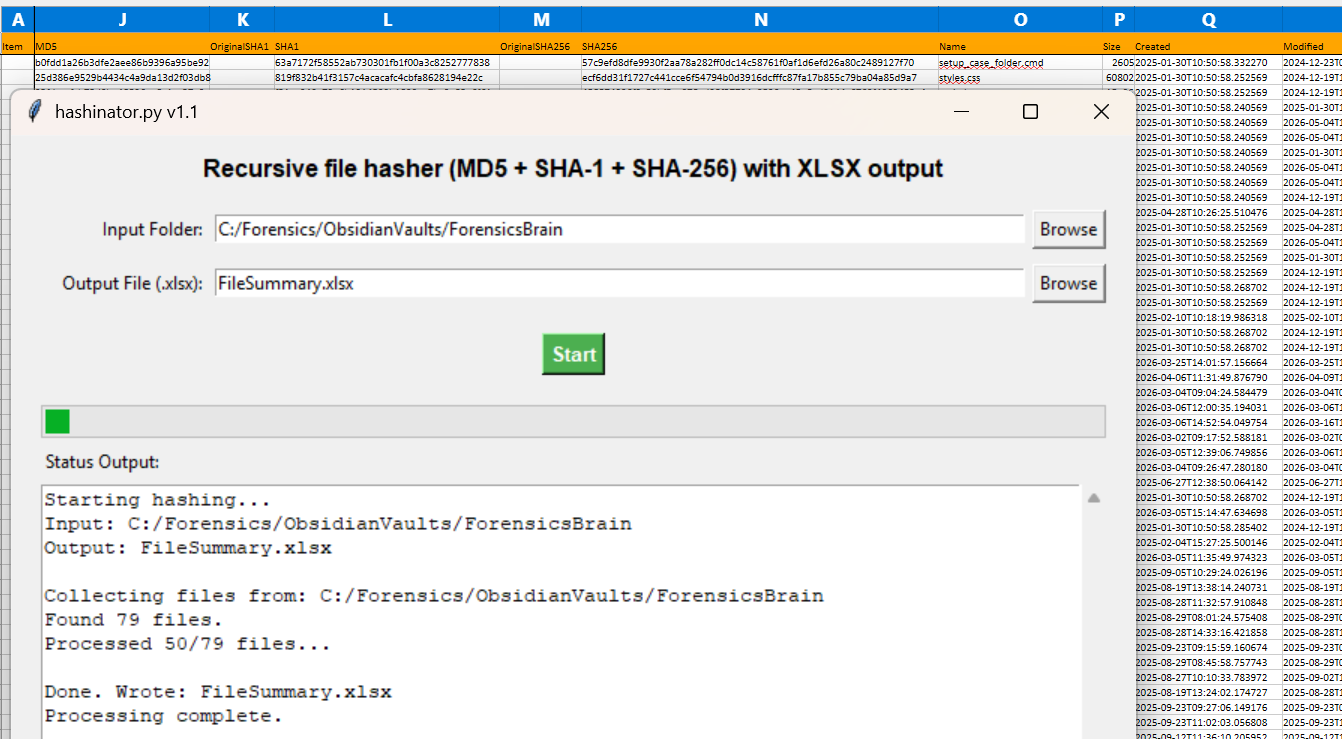
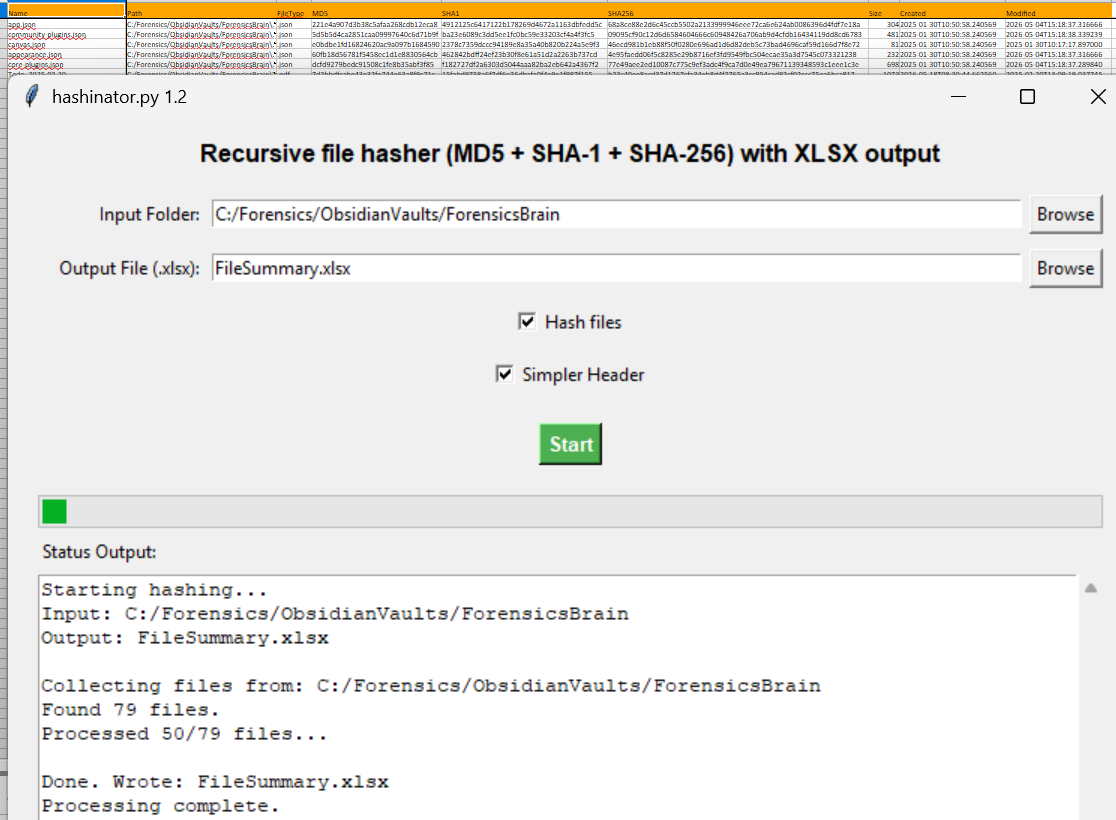
.

Changed region(s): [[0.0, 0.0, 1.0, 1.0], [0.3961, 0.4357, 0.5789, 0.5291], [0.457, 0.3735, 0.5789, 0.4046]]

diff --git a/Misc/hashinator.py b/Misc/hashinator.py
@@ -25,6 +25,9 @@ HEADERS = ["Item", "Path", "FileType", "ExportID", "ItemPath", "OriginalPath"
 , "ParentItem", "HeadOfFamily", "OriginalMD5", "MD5", "OriginalSHA1", "SHA1"
 , "OriginalSHA256", "SHA256", "Name", "Size", "Created", "Modified"]
 
+HEADERS2 = ["Name", "Path", "FileType", "MD5", "SHA1", "SHA256", "Size", "Created", "Modified"]
+
+
 
 # ----------------------------------------------------------------------
 # Hashing + file info
@@ -86,33 +89,31 @@ def write_xlsx(data, output_xlsx, headers):
     # -----------------------------
     # Column width settings
     # -----------------------------
-    widths = {
-        "A": 6,  # Item
-        "B": 38,  # Path
-        "C": 9,  # FileType
-        "D": 9,  # ExportID
-        "E": 9,  # ItemPath
-        "F": 14,  # OriginalPath
-        "G": 11,  # ParentItem
-        "H": 14,  # HeadOfFamily
-        "I": 12,  # OriginalMD5
-        "J": 33,  # MD5
-        "K": 12,  # OriginalSHA1
-        "L": 42,  # SHA1
-        "M": 15,  # OriginalSHA256
-        "N": 66,  # SHA256
-        "O": 30,  # Name
-        "P": 6,  # Size
-        "Q": 27,  # Created
-        "R": 27,  # Modified        
+    header_widths = {
+        "Item": 6,
+        "Path": 38,
+        "FileType": 9,
+        "ExportID": 9,
+        "ItemPath": 9,
+        "OriginalPath": 14,
+        "ParentItem": 11,
+        "HeadOfFamily": 14,
+        "OriginalMD5": 12,
+        "MD5": 33,
+        "OriginalSHA1": 12,
+        "SHA1": 42,
+        "OriginalSHA256": 15,
+        "SHA256": 66,
+        "Name": 30,
+        "Size": 8,
+        "Created": 27,
+        "Modified": 27,
     }
 
-								
-
-
-
-    for col, width in widths.items():
-        ws.column_dimensions[col].width = width
+    for col_index, header in enumerate(headers, start=1):
+        if header in header_widths and col_index <= 26:
+            col_letter = chr(64 + col_index)
+            ws.column_dimensions[col_letter].width = header_widths[header]
 
     # -----------------------------
     # Write data rows (dynamic order)
@@ -170,7 +171,7 @@ def write_xlsx(data, output_xlsx, headers):
 # ----------------------------------------------------------------------
 # Core processing
 # ----------------------------------------------------------------------
-def process_folder(input_folder, output_file, do_hashing=True, status_callback=None):
+def process_folder(input_folder, output_file, do_hashing=True, use_simple_headers=False, status_callback=None):
     if status_callback:
         status_callback(f"Collecting files from: {input_folder}\n")
 
@@ -235,7 +236,8 @@ def process_folder(input_folder, output_file, do_hashing=True, status_callback=N
             if status_callback and processed % 50 == 0:
                 status_callback(f"Processed {processed}/{total} files...\n")
 
-    write_xlsx(data, output_file, HEADERS)
+    headers_to_use = HEADERS2 if use_simple_headers else HEADERS
+    write_xlsx(data, output_file, headers_to_use)
 
     if status_callback:
         status_callback(f"\nDone. Wrote: {output_file}\n")
@@ -257,6 +259,7 @@ text_status = None
 progress = None
 btn_start = None
 hash_files_var = None
+simpler_header_var = None
 
 
 def gui_log(message):
@@ -286,6 +289,7 @@ def start_processing_thread():
     def worker():
         try:
             process_folder(input_folder, output_file, do_hashing=hash_files_var.get(),
+                           use_simple_headers=simpler_header_var.get(),
                            status_callback=lambda m: root.after(0, gui_log, m))
         finally:
             root.after(0, processing_done)
@@ -350,7 +354,7 @@ def processing_done():
 
 
 def launch_gui():
-    global gui_active, root, entry_input, entry_output, text_status, progress, btn_start, hash_files_var
+    global gui_active, root, entry_input, entry_output, text_status, progress, btn_start, hash_files_var, simpler_header_var
 
     gui_active = True
     root = tk.Tk()
@@ -403,6 +407,10 @@ def launch_gui():
     hash_files_var = tk.BooleanVar(value=True)
     chk_hash = tk.Checkbutton(root, text="Hash files", variable=hash_files_var)
     chk_hash.pack(pady=5)
+
+    simpler_header_var = tk.BooleanVar(value=False)
+    chk_header = tk.Checkbutton(root, text="Simpler Header", variable=simpler_header_var)
+    chk_header.pack(pady=5)
 
     # Start button
     btn_start = tk.Button(root, text="Start", command=start_processing_thread,